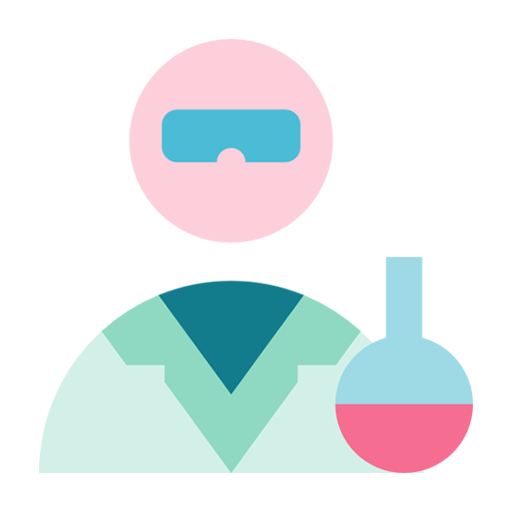
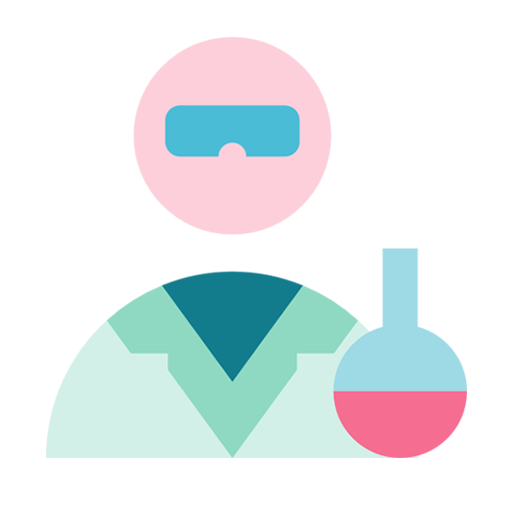
Image size capped

diff --git a/css/main.css b/css/main.css
@@ -14,6 +14,7 @@ body {
 	font-family: 'PT Sans', sans-serif;
 	font-weight: bolder;
 	margin-bottom: 10px;
+	margin-top: 10px;
 }
 
 #sidenav-overlay {
@@ -82,7 +83,7 @@ nav .brand-logo {
 }
 
 .department-icon {
-	width: 70%;
+	max-width: 70%;
 	height: auto;
 	align-self: center;
 	margin-bottom: 10px;

diff --git a/js/department_index.js b/js/department_index.js
@@ -44,9 +44,6 @@ function loadDepartmentsList() {
 		var icon = document.createElement('img');
 		icon.className = "department-icon";
 		icon.src = "img/departments/" + department.icon;
-		$(".department-icon").css({
-			"width":"10vw"
-		})
 
 		name = department.name.split(/[ ,]+/).join('<br>')
 
